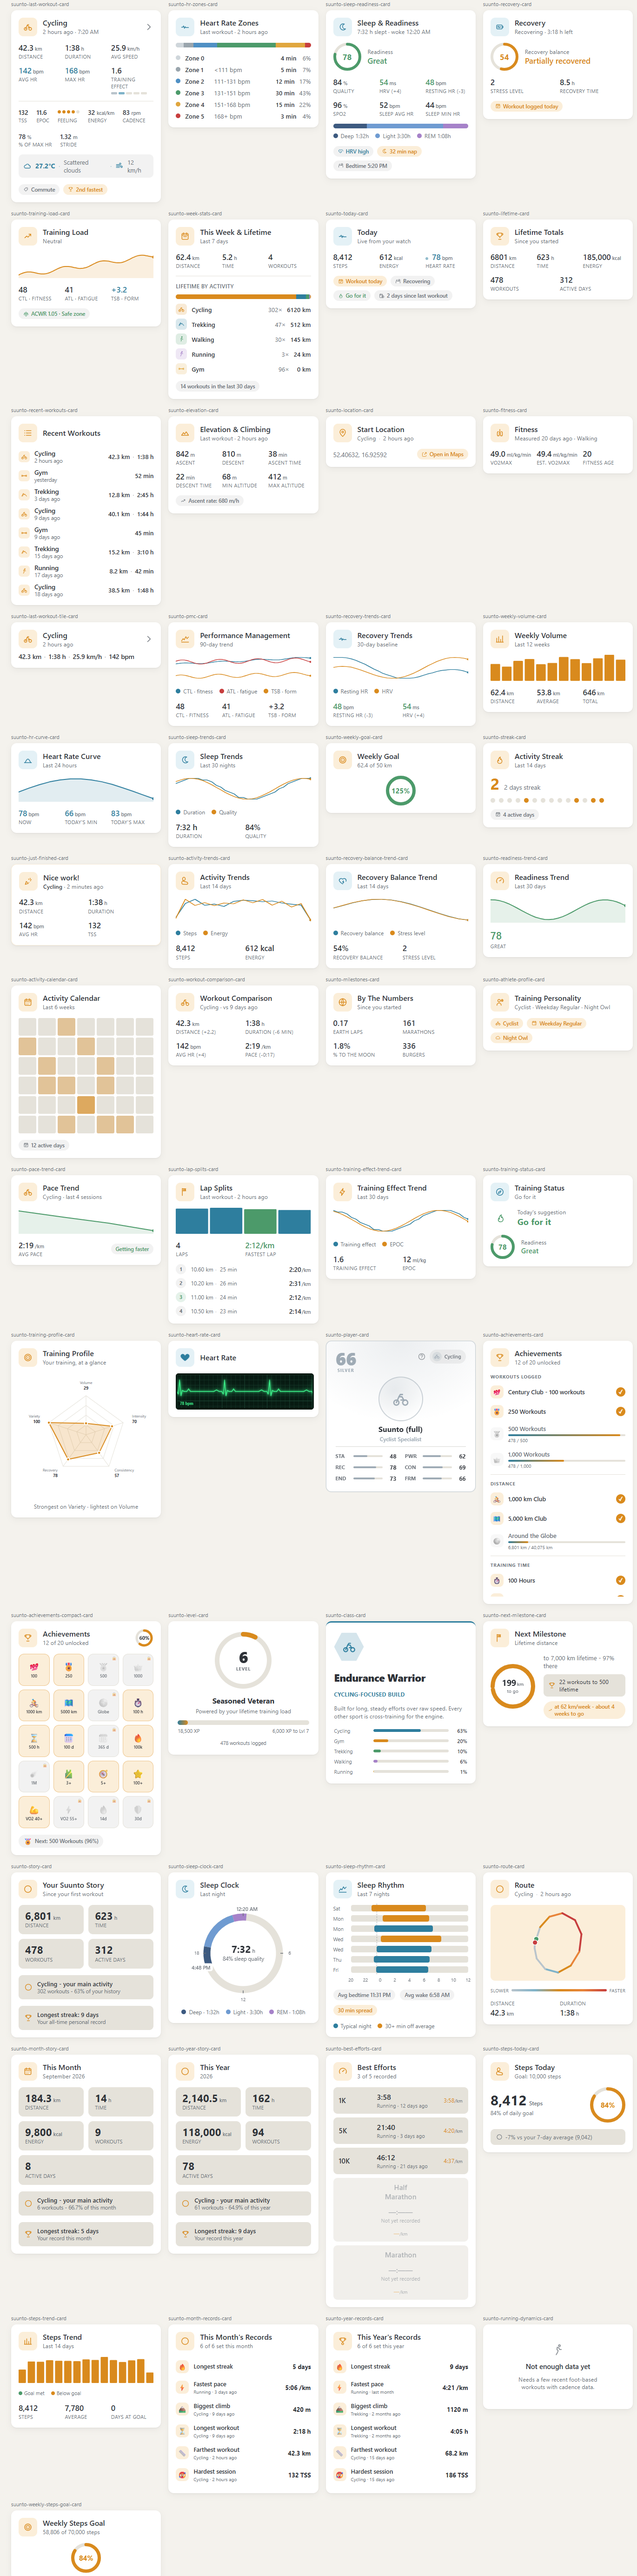
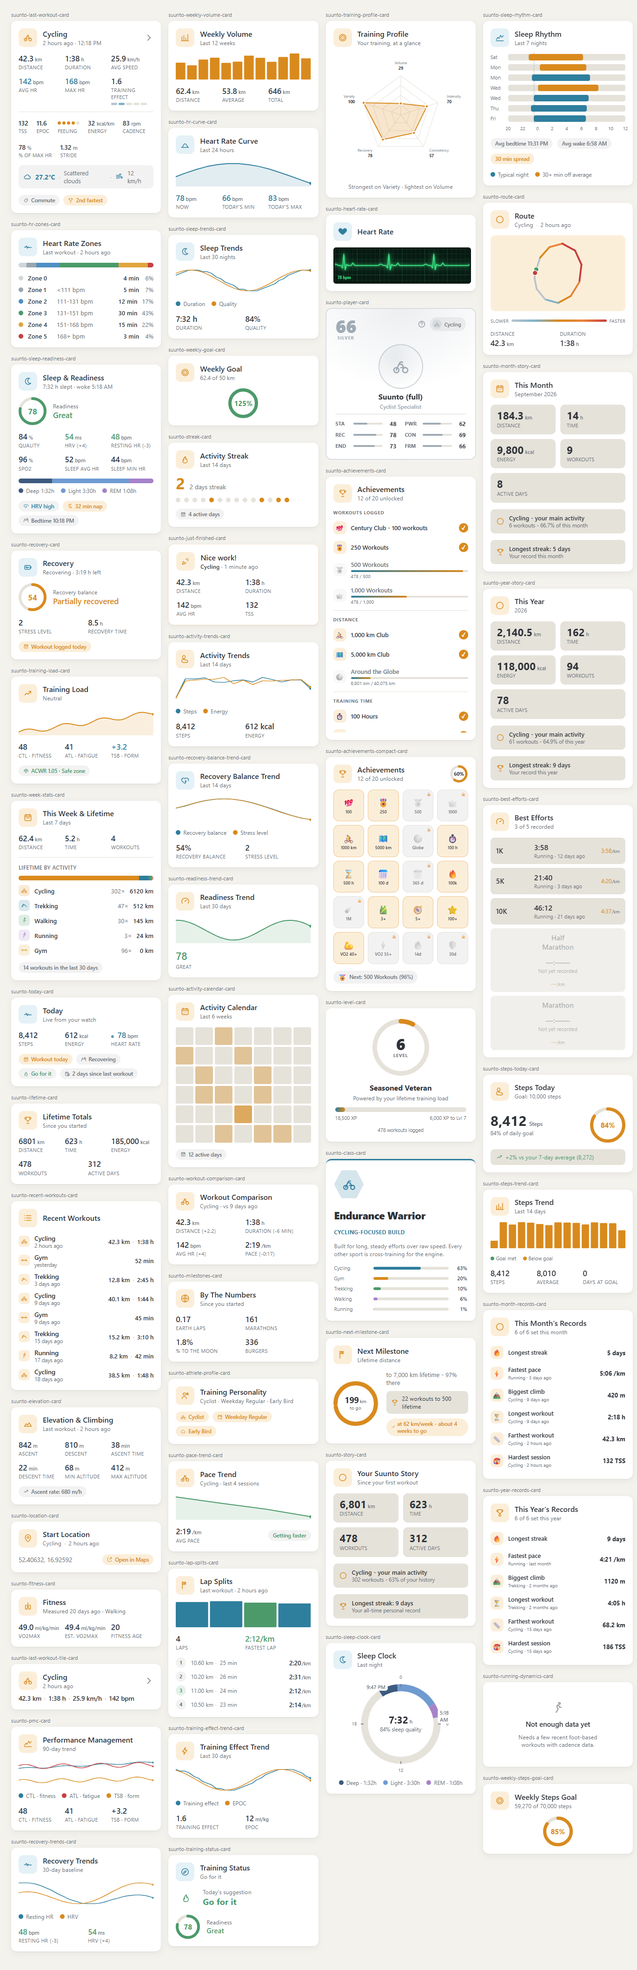
fix: regenerate README hero screenshots as real masonry (no gaps)
cards-overview-{dark,light}.png were captured against the dev harness's
default CSS Grid, which sizes every row to its tallest card and leaves
dead space under shorter neighbors. Re-captured both with a real
CSS-columns masonry pack instead, and documented the exact recipe as a
comment in dev/index.html so it survives the next regen.

diff --git a/dev/index.html b/dev/index.html
@@ -59,6 +59,23 @@
     grid-template-columns: repeat(auto-fill, minmax(300px, 1fr));
     gap: 16px;
   }
+  /* README hero screenshot (docs/screenshots/cards-overview-*.png) must NOT
+     be captured against this default CSS Grid: row height = tallest card in
+     that row, so any shorter neighbor leaves dead space below it (the bug
+     reported live more than once). Before take_screenshot, switch #full via
+     evaluate_script to a real masonry pack instead:
+       full.style.display = 'block';
+       full.style.columnCount = '4';
+       full.style.columnGap = '16px';
+       for (const c of full.children) {
+         c.style.breakInside = 'avoid';
+         c.style.marginBottom = '16px';
+         c.style.display = 'inline-block';
+         c.style.width = '100%';
+       }
+     Also hide #empty via style.setProperty('display','none','important') -
+     a plain .hidden/[hidden] loses the specificity fight against .grid's
+     own display:grid rule and silently stays visible. */
   /* ha-card / ha-icon are styled from inside their own shadow DOM (see the
      stubs below) - these custom properties are what they read. */
 </style>
